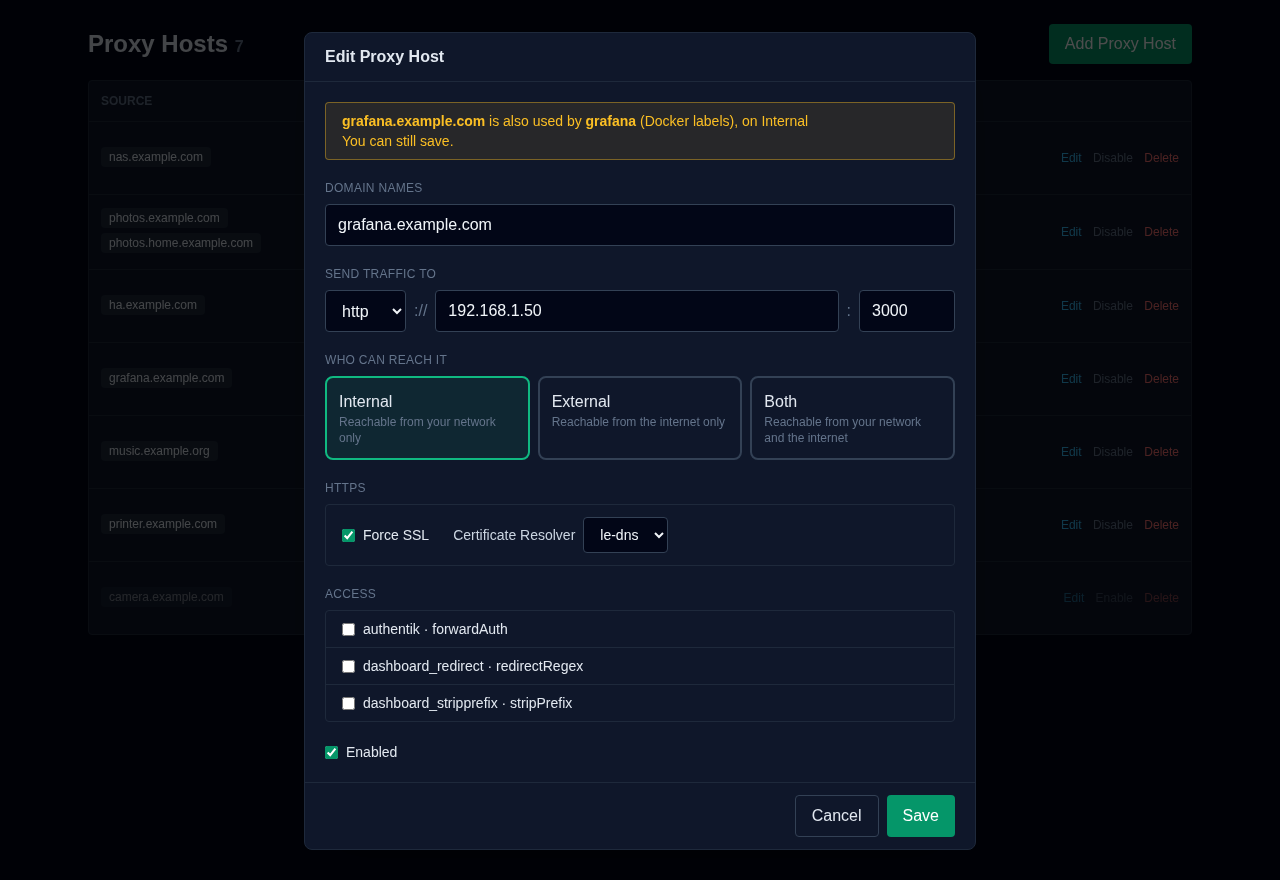
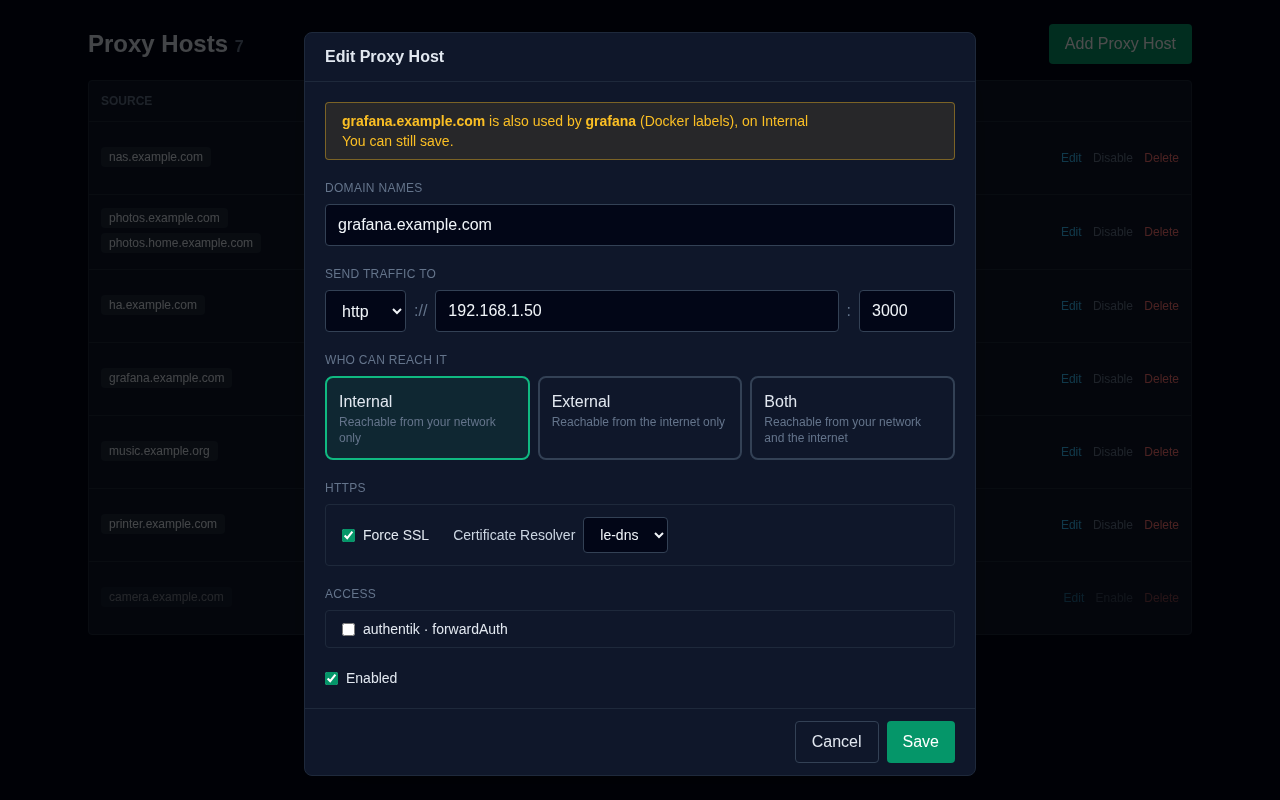
Access picker leaves out Traefik's own @internal Middlewares

diff --git a/internal/app/access_test.go b/internal/app/access_test.go
@@ -66,6 +66,7 @@ func accessApp(t *testing.T) (*app.App, *fakeTraefik, *clock) {
 		fakeMiddleware{"name": "lan-only@file", "type": "ipallowlist", "ipAllowList": map[string]any{}},
 		fakeMiddleware{"name": "crowdsec@docker", "type": "crowdsec-bouncer", "plugin": map[string]any{"crowdsec-bouncer": map[string]any{}}},
 		fakeMiddleware{"name": "tpm-force-ssl@http", "type": "redirectscheme", "redirectScheme": map[string]any{}},
+		fakeMiddleware{"name": "dashboard_redirect@internal", "type": "redirectregex", "redirectRegex": map[string]any{}},
 	)
 	c := &clock{now: t0}
 	env := withDefaults(t.TempDir())
@@ -98,6 +99,9 @@ func TestAccessSectionListsTraefiksMiddlewaresByNameAndType(t *testing.T) {
 	assertContains(t, accessItem(t, modal, "crowdsec@docker"), "crowdsec · crowdsec-bouncer")
 	if strings.Contains(modal, "tpm-force-ssl") {
 		t.Errorf("modal offers tpm's own helper as an Access rule:\n%s", modal)
+	}
+	if strings.Contains(modal, "dashboard_redirect") {
+		t.Errorf("modal offers Traefik's own dashboard Middleware as an Access rule:\n%s", modal)
 	}
 }
 

diff --git a/internal/app/web.go b/internal/app/web.go
@@ -169,7 +169,8 @@ func (w *web) accessPicker(f *formView) {
 		others = append(others, byExposure[e.Value]...)
 	}
 	for name := range live.middlewares {
-		if name != forceSSLMiddleware+"@http" { // tpm's own, not an Access rule
+		// tpm's own and Traefik's own (e.g. its dashboard's) aren't Access rules.
+		if name != forceSSLMiddleware+"@http" && !strings.HasSuffix(name, "@internal") {
 			others = append(others, name)
 		}
 	}
